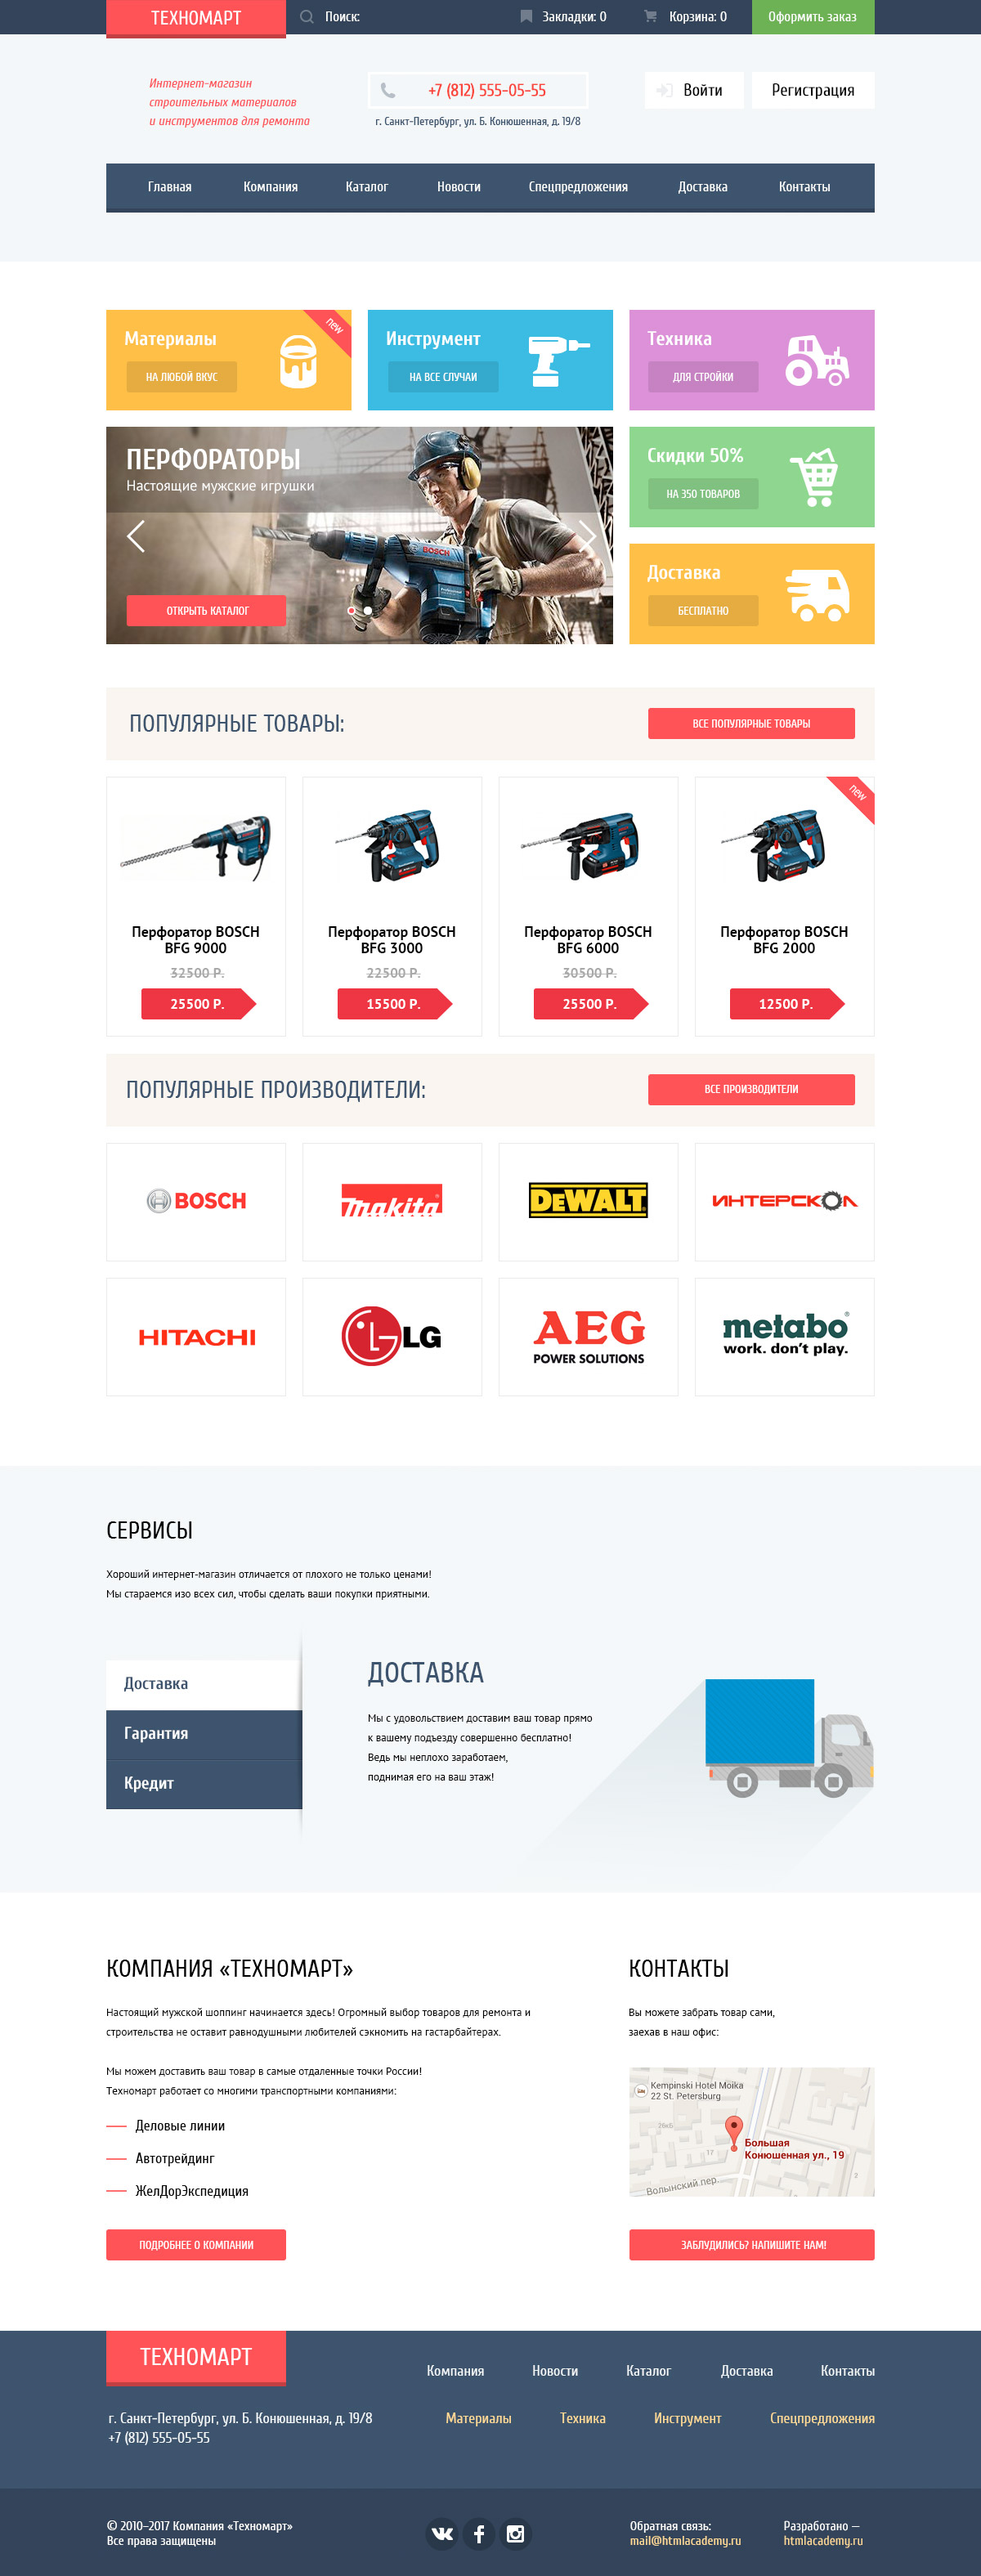
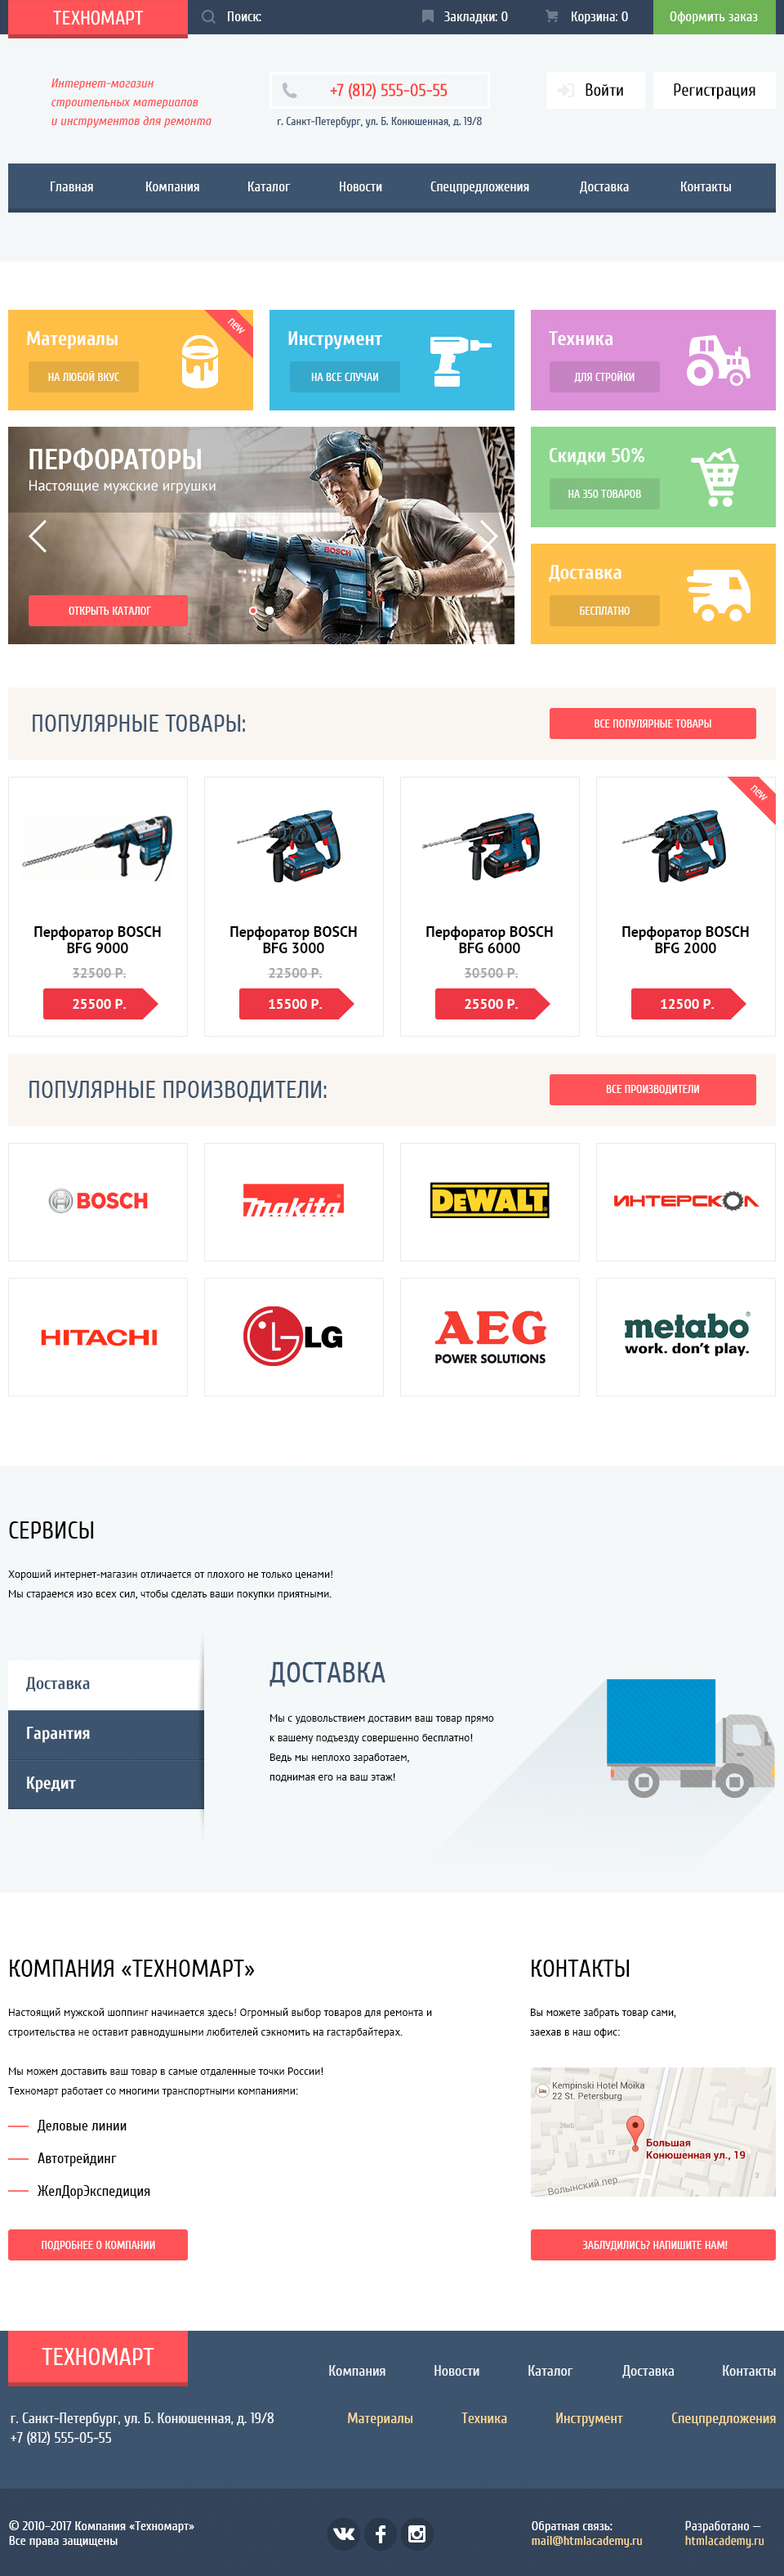
Внес правки и доделал футер

diff --git a/css/style.css b/css/style.css
@@ -583,11 +583,10 @@ a {
 body {
   /* Временно для сетки */
 
-  min-width: 1200px;
-  min-height: 3151px;
+  min-width: 960px;
 
   background-image: url("/img/technomart-index.jpg");
-  background-size: 1200px auto;
+  background-size: 960px auto;
   background-repeat: no-repeat;
 }
 
@@ -647,16 +646,13 @@ body {
   display: flex;
   flex-wrap: wrap;
   
-  margin-bottom: 120px;
+  margin-bottom: 59px;
   
-  /* Временно для сетки */
-  min-height: 172px;
 }
 
 .description-header {
   margin: 0;
   margin-right: 20px;
-  padding: 0;
   
   width: 300px;
   
@@ -667,8 +663,6 @@ body {
 
 
 .phone-address {
-  margin: 0;
-  padding: 0;
   margin-right: 20px;
   
   width: 300px;
@@ -691,9 +685,11 @@ body {
 }
 
 .main-navigation {  
-  width: 940px;
+  width: 100%;
   margin-top: 36px;
   
+  
+  padding-bottom: 60px;
   /* Временно для сетки */
   min-height: 60px; 
   outline: 2px solid orange;
@@ -705,19 +701,20 @@ body {
 
 .services-product-list {
   margin: 0;
-  margin-bottom: 53px;
   padding: 0;
   
   display: flex;
   flex-wrap: wrap;
-  
-  width: 940px;
-  
+  align-items: flex-start;
   list-style: none;
   
   /* Временно для сетки */
   min-height: 409px; 
   outline: 2px solid orange;
+}
+
+.services-product {
+  margin-bottom: 53px;
 }
 
 .material {
@@ -764,22 +761,21 @@ body {
 
   /* Временно для сетки */
   min-height: 120px; 
-  outline: 2px solid black;
+  outline: 2px solid orange;
 }
 
-  /* Тут я не понял как сделать так, что бы он не переносился
 .delivery-services{
   width: 300px;
+  margin-top: -120px;
+  margin-left: auto;
 
   min-height: 120px; 
-  outline: 2px solid black;
+  outline: 2px solid orange;
 }
- */
+
 
 .popular-product-header {
   display: flex;
-  
-  width: 940px;
     
   margin-bottom: 20px;
   
@@ -793,10 +789,8 @@ body {
   margin-bottom: 20px;
   justify-content: space-between;
   
-  width: 940px;
-  
   /* Временно для сетки */
-  min-height: 318px; 
+   
   outline: 2px solid orange;
 }
 
@@ -804,15 +798,15 @@ body {
   width: 220px;
   
   /* Временно для сетки */
-
+  min-height: 318px;
   outline: 2px solid orange;
 }
 
 .popular-brand-header {
   display: flex;
+  flex-wrap: wrap;
   
   margin-bottom: 20px;
-  width: 940px;
   
   /* Временно для сетки */
   min-height: 89px; 
@@ -829,14 +823,13 @@ body {
   
   margin: 0;
   padding: 0;
-  margin-bottom: 148px;
+  margin-bottom: 85px;
   
   list-style: none;
   
-  width: 940px;
   
   /* Временно для сетки */
-  min-height: 310px; 
+/*  min-height: 310px; */
   outline: 2px solid orange;
 }
 
@@ -844,17 +837,21 @@ body {
   width: 220px;
   
   /* Временно для сетки */
-  min-height: 145px;
+  height: 145px;
   outline: 2px solid orange;
+
 }
 
-/* Вот тут я не понял как все располагать*/
+.popular-brand-header-list li:nth-child(n+5) {
+  margin-top: 20px;
+}
+
 .service-flex {
   display: flex;
   flex-direction: column;
   
-  margin-bottom: 180px;
-  
+  padding-top: 63px;
+    
   width: 940px;
   
   /* Временно для сетки */
@@ -870,16 +867,28 @@ body {
   min-height: 100px;
   outline: 2px solid orange;
 }
-/* Вот тут я не понял как все располагать*/
+
+
+.delivery {
+  width: 620px;
+  
+  margin-left: auto;
+  
+  /* Временно для сетки */
+  min-height: 288px;
+  outline: 2px solid orange;
+}
+
 
 .description {
   display: flex;
-  margin-bottom: 86px;
   
+  padding-top: 79px;
+  padding-bottom: 86px; 
   width: 940px;
   
   /* Временно для сетки */
-  min-height: 374px;
+  min-height: 368px;
   outline: 2px solid orange;
 }
 
@@ -888,7 +897,7 @@ body {
   margin-right: 20px;
 
   /* Временно для сетки */
-  min-height: 374px;
+
   outline: 2px solid orange;
 }
 
@@ -896,9 +905,99 @@ body {
   width: 380px;
   
   /* Временно для сетки */
-  min-height: 374px;
   outline: 2px solid orange;
 }
 
+.flex-footer {
+  display: flex;
+  flex-wrap: wrap;
+  
+  padding-bottom: 52px;
+}
 
+.main-header-logo-footer {
+  width: 220px;
+  
+  /* Временно для сетки */
+  min-height: 68px;
+  outline: 2px solid orange;
+}
 
+.site-navigation {
+  width: 560px;
+  
+  list-style: none;
+  
+  margin: 0;
+  margin-left: auto;
+  padding: 0;
+  
+  /* Временно для сетки */
+  outline: 2px solid orange;
+}
+
+.contact-footer {
+  width: 380px;
+  
+  margin: 0;
+  margin-top: 30px;
+  
+  /* Временно для сетки */
+  min-height: 41px;
+  outline: 2px solid orange;
+}
+
+.site-navigation-2 {
+  width: 560px;
+  
+  list-style: none;
+  
+  margin: 0;
+  
+  padding: 0;
+  margin-top: 30px;
+  
+  /* Временно для сетки */
+  min-height: 41px;
+  outline: 2px solid orange;
+}
+
+.flex-footer-bottom {
+  display: flex;
+}
+
+.copyrighted {
+  width: 240px;
+  
+  margin: 0;
+  margin-right: 140px;
+  margin-top: 37px;
+  
+  /* Временно для сетки */
+  min-height: 36px;
+  outline: 2px solid orange;
+}
+
+.footer-social {
+  width: 160px;
+  
+  list-style: none;
+  margin: 0;
+  padding: 0;
+  
+  margin-right: 81px;
+  margin-top: 34px;
+  
+  /* Временно для сетки */
+  outline: 2px solid orange;
+}
+
+.developed {
+  width: 160px;
+  
+  margin: 0;
+  margin-top: 34px;
+
+  /* Временно для сетки */
+  outline: 2px solid orange;
+}

diff --git a/index.html b/index.html
@@ -506,7 +506,7 @@
     
     <footer class="main-footer">
       <div class="container flex-footer">
-        <a class="main-header-logo"></a>
+        <a class="main-header-logo-footer"></a>
         <ul class="site-navigation">
           <li class="site-navigation-item"></li>
           <li class="site-navigation-item"></li>
@@ -523,7 +523,7 @@
         </ul>
       </div> 
       <div class="main-footer-bottom">
-        <div class="container">
+        <div class="container flex-footer-bottom">
           <p class="copyrighted"></p>
           <ul class="footer-social">
             <li class="footer-social-item"></li>
